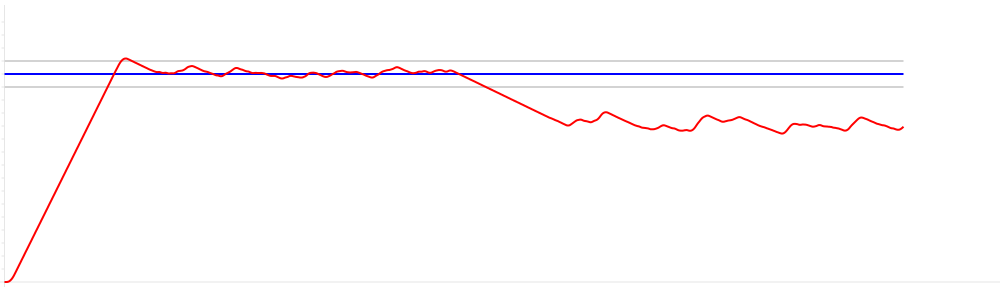
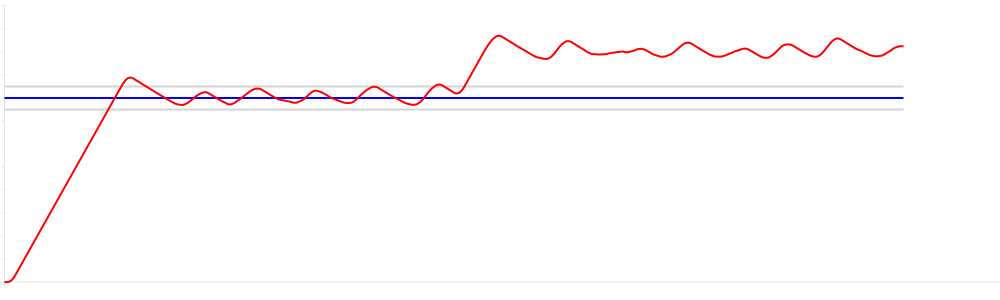
graph generation for altitude

Changed region(s): [[0.0, 0.12, 0.899, 0.63], [0.031, 0.63, 0.062, 0.81], [0.0, 0.81, 0.031, 0.93]]

diff --git a/sims/thrustModel.js b/sims/thrustModel.js
@@ -31,9 +31,9 @@ exports.Model = function () {
     this.controller = null;
 
     //Bigger value causes bigger inertia and it takes longer to archive desired speed
-    this.delayFactor = 0.8;
+    this.delayFactor = 0.75;
 
-    this.altitudeError = 40; // [cm]
+    this.altitudeError = 50; // [cm]
 
     this.inertiaLength = 2;
     this.speedInertias = [];
@@ -71,7 +71,10 @@ exports.Model = function () {
     this.addNoiseToAltitude = function (value) {
         var retVal = value + (Math.random() * this.altitudeError) - (this.altitudeError / 2);
 
-        console.log(retVal);
+        /*
+         * Round to tens of centimeters
+         */
+        retVal = Math.round(retVal / 10) * 10;
 
         return retVal;
     };

diff --git a/sims/thrustController.js b/sims/thrustController.js
@@ -5,14 +5,14 @@ exports.Controller = function () {
     this.errorLength = 10;
     this.errors = [];
 
-    this.Kp = 5;
-    this.Ki = 0.1;
-    this.Kd = 0.2;
+    this.Kp = 0.4;
+    this.Ki = 0.02;
+    this.Kd = 0.1;
 
     this.deltaMultiplier = 1;
 
     this.maxOutput = 250; // [PWM]
-    this.minOutput =  64; // [PWM]
+    this.minOutput = 48; // [PWM]
     this.maxDelta = 20; // [PWM]
 
     this.currentOutput = 0; // [PWM]

diff --git a/sims/sim.js b/sims/sim.js
@@ -28,14 +28,14 @@ m.altitudeError = 50;
 for(i = 0; i < 900; i++) {
 
     if (i === 450) {
-        m.targetAltitude = 300;
+        m.targetAltitude = 500;
     }
 
     m.run();
 }
 
-//console.log("Outputs", m.outputs);
-console.log("Altitudes", m.altitudes);
+console.log("Outputs", m.outputs);
+//console.log("Altitudes", m.altitudes);
 
 var Canvas = require('canvas')
     , canvas = new Canvas(1000, 300)
